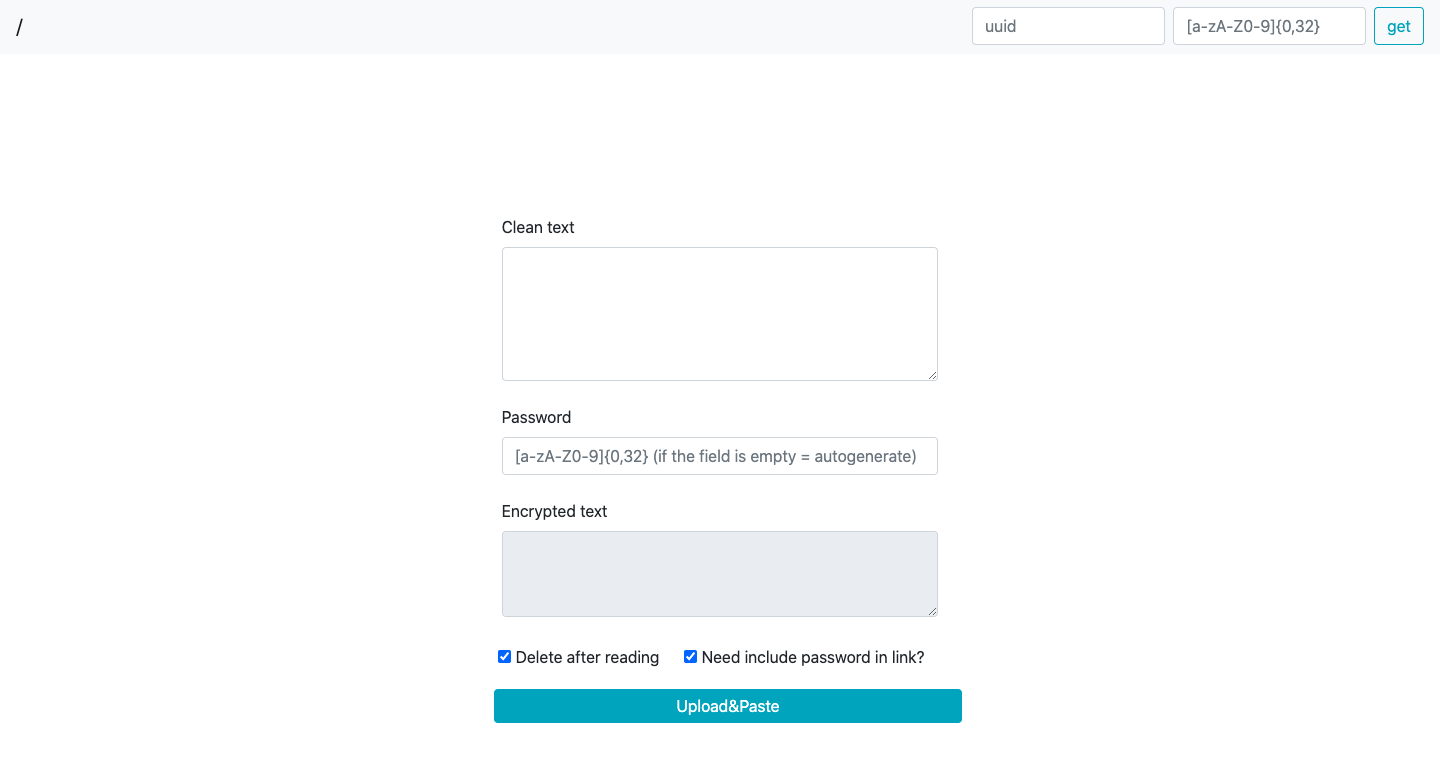
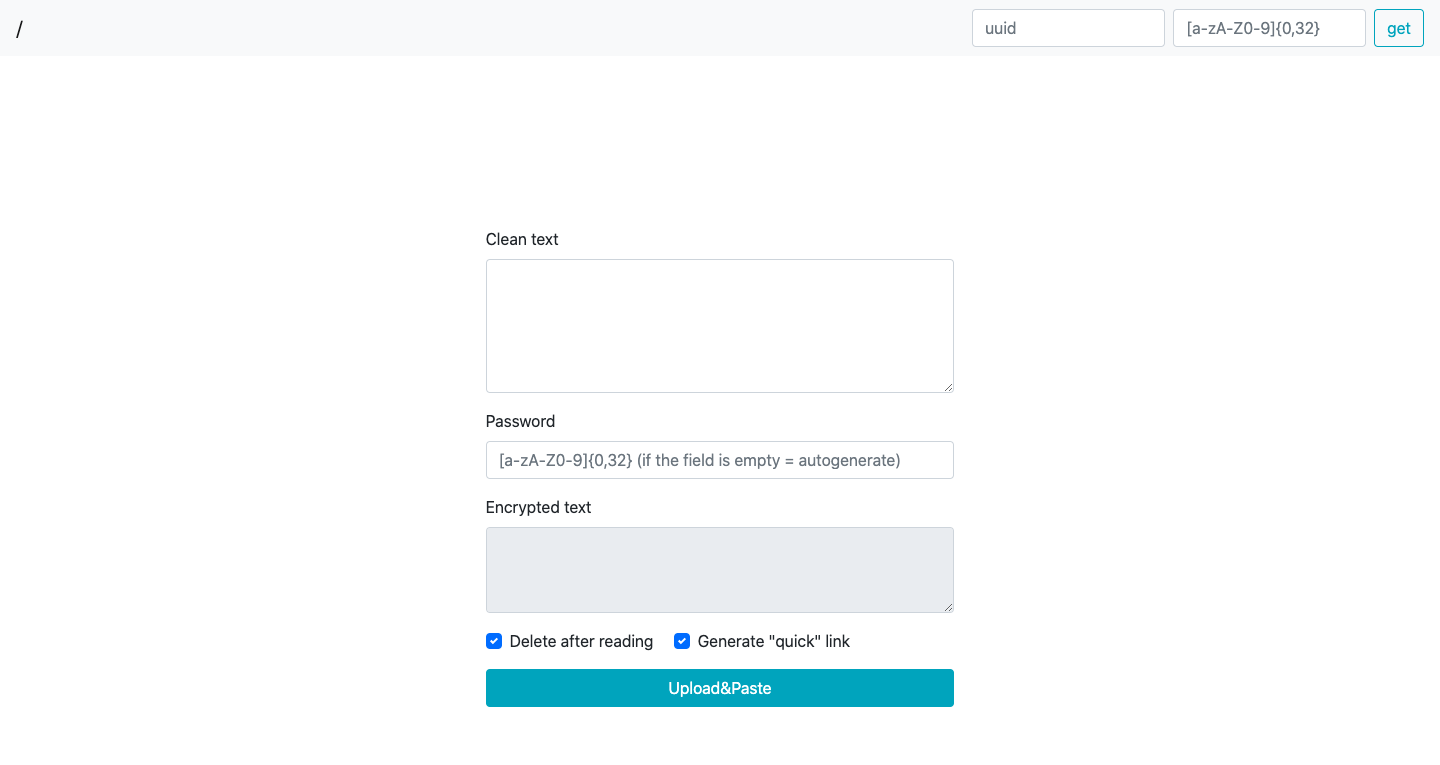
new achievement unlocked - end game

diff --git a/templates/index.html b/templates/index.html
@@ -37,28 +37,30 @@
         <div class="col-7 mx-auto">
 
 <form method="POST" autocomplete="off" action="/">
-  <div class="form-group p-2 m-2">
+  <div class="form-group">
     <label for="textarea">Clean text</label>
     <textarea class="form-control" id="textarea" required oninput="mda_crypt()" rows="5"></textarea>
   </div>
-  <div class="form-group p-2 m-2">
+  <div class="form-group">
     <label for="password">Password</label>
     <input type="password" class="form-control" name="password" maxlength="64" pattern="^[a-zA-Z0-9]+$" oninput="mda_crypt()" id="password" placeholder="[a-zA-Z0-9]{0,32} (if the field is empty = autogenerate)">
   </div>
-  <div class="form-group p-2 m-2">
+  <div class="form-group">
     <label for="crypt_textarea">Encrypted text</label>
     <textarea class="form-control" name="crypt_textarea" required readonly id="crypt_textarea" rows="3"></textarea>
   </div>
-  <div class="form-check form-check-inline p-1 m-2">
-    <input type="checkbox" class="form-check-input" name="need_delete" checked id="need_delete">
-    <label class="form-check-label" for="need_delete">Delete after reading</label>
+
+
+  <div class="form-group custom-control custom-checkbox custom-control-inline">
+    <input type="checkbox" class="form-control custom-control-input" name="need_delete" checked id="need_delete">
+    <label class="custom-control-label" for="need_delete">Delete after reading</label>
   </div>
-  <div class="form-check form-check-inline p-1 m-1">
-    <input type="checkbox" class="form-check-input" name="include_password" checked id="include_password">
-    <label class="form-check-label" for="include_password">Generate a link</label>
+  <div class="form-group custom-control custom-checkbox custom-control-inline">
+    <input type="checkbox" class="form-control custom-control-input" name="include_password" checked id="include_password">
+    <label class="custom-control-label" for="include_password">Generate "quick" link</label>
   </div>
-  <!-- <button type="submit" onclick="mda_hash()" class="btn btn-block btn-info p-1 m-2">Upload&Paste</button> -->
-  <button type="submit" onclick="mda_hash()" class="btn btn-block btn-info p-1 m-2">Upload&Paste</button>
+
+  <button type="submit" onclick="mda_hash()" class="btn btn-block btn-info">Upload&Paste</button>
 </form>
 
 </div>

diff --git a/templates/text.html b/templates/text.html
@@ -41,7 +41,8 @@
 </div>
 </body>
 <script type="text/javascript">
- 	document.getElementById("textarea").value = code.decryptMessage('{{ crypt_textarea }}','{{ password }}')
+  const urlParams = new URLSearchParams(window.location.search);
+  document.getElementById("textarea").value = code.decryptMessage('{{ crypt_textarea }}', urlParams.get('password'));
  </script>
 </html>
 {% endblock %}

diff --git a/app.py b/app.py
@@ -15,7 +15,7 @@
 from flask import Flask, request, render_template, redirect, url_for, flash
 import logging as log
 from tinydb import TinyDB, Query
-from json import loads
+from json import dumps as json_dumps
 from uuid import uuid4
 
 # killmeforthiscode ._. 
@@ -25,7 +25,7 @@ DB_PATH = 'db.json'
 db = TinyDB(DB_PATH)
 app = Flask(__name__)
 app.secret_key = b'ChangeThisToken'
-log.basicConfig(level=log.NOTSET, format='[%(levelname)s] %(asctime)s - %(message)s', datefmt='%d-%m-%y %H:%M:%S')
+log.basicConfig(level=log.NOTSET, format='[%(levelname)s] %(asctime)s - %(message)s', datefmt='%d-%m-%y %H:%M:%S', filename='notesApp_debug.log')
 
 @app.route('/', methods=['GET', 'POST'])
 def index():
@@ -69,13 +69,24 @@ def getNote(_uuid):
 def create_note(request):
     _request = request.form.to_dict()
     _request['uuid'] = uuid4().hex
+    _password = _request.get('password')
+    del(_request['password'])
     db.insert(_request)
-    return _request.get('uuid'), _request.get('password')
+    return _request.get('uuid'), _password
 
 @app.route('/nope', methods=['GET', 'POST'])
 def nope():
-    _ = '{}\t{}'.format(request.args, request.headers)
-    log.warning(_)
+    '''
+    _alert = dict(request.headers.values())
+    _alert.update(dict(request.args.values()))
+    #_args = [i for i in request.args.items()]
+    #_headers.append(_args)
+    #_alert = json_dumps(_headers, sort_keys=True)
+    log.warning(_alert)
+    #print(dir(request.headers))
+    #print(request.headers.values())
+    #print([i for i in request.headers.items()])
+    '''
     return redirect(url_for("index"))
 
 '''
@@ -100,4 +111,4 @@ for note in tmp_db:
 
 if __name__ == '__main__':
     app.run(host='0.0.0.0', port=5001)
-    #app.run(debug=True)
+    #app.run(debug=True, port=5001)

diff --git a/README.md b/README.md
@@ -9,9 +9,11 @@
 ## todo:
 
 
-0. ~~beta-версия: выполнить главную идею - шифрование полностью на стороне клиента~~
+0. ~~beta-версия~~
 1. ~~Рефакторинг~~
 2. ~~Оптимизация~~
-3. ~~Найти другую либу (или способ) для шифрования на стороне клиента, так как текущая очень слабая в плане криптостойкости~~
-4. Добавить хранение файлов (картинки, архивы, документы):
+3. ~~Найти другую либу (или способ)~~ для шифрования на стороне клиента, так как текущая очень слабая в плане криптостойкости
+4. ~~Закончить реализацию~~ исходной идеи - шифрование/расшифровка полностью на стороне клиента (даже открытый текст на сервер не отправляется), без надобности хранения пароля в БД *(see example: `db.json`)*. Ваши заметки не сможет прочитать даже владелец сервиса.
+5. Продолжить идею логгирования (logging warnings - bad UUIDs, malcode in client query)
+5. Добавить хранение файлов (картинки, архивы, документы)
 
